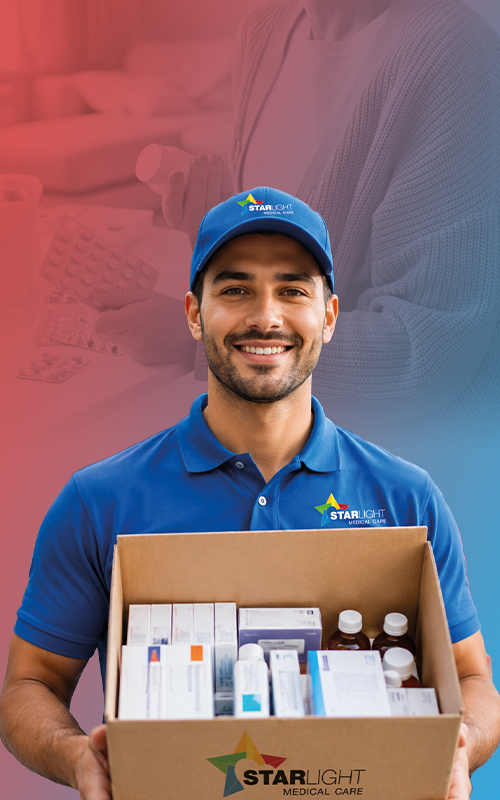
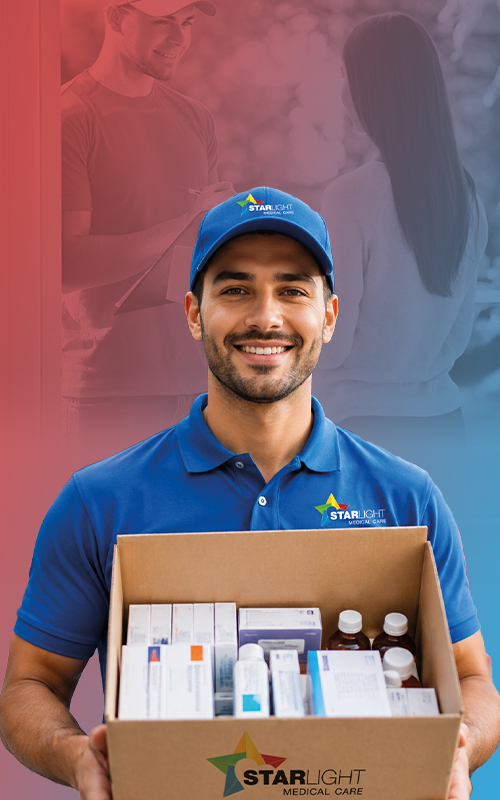
nuevas imagenes, nuevo servicio y bandaBotones

diff --git a/src/components/services1.tsx b/src/components/services1.tsx
@@ -15,6 +15,8 @@ import car5 from "@/assets/Rehabilitacion-1.jpg";
 import car51 from "@/assets/Rehabilitacion-2.jpg";
 import car6 from "@/assets/EquipoMed-1.jpg";
 import car61 from "@/assets/EquipoMed-2.jpg";
+import car7 from "@/assets/Farmacias-1920x530.jpg";
+import car71 from "@/assets/Farmacias-500x800.jpg";
 import { ModalRegistro } from "./ModalRegistro";
 import {
   Dialog,
@@ -230,6 +232,12 @@ const allServices = [
     title: "Venta y Renta de Equipo Médico",
     description: "Amplio catálogo de equipo médico para hospitales, clínicas y uso doméstico.",
   },
+   {
+    imageDesktop: car7,
+    imageMobile: car71,
+    title: "Farmacias Corporativas",
+    description: "Abastecimiento de medicamentos de alta especialidad, genéricos y de patente para hospitales, clínicas, empresas y particulares. Contamos con cadena de frío y distribución a nivel nacional.",
+  },
 ];
 
 export function Services1() {
@@ -242,6 +250,8 @@ export function Services1() {
   const [currentIndex, setCurrentIndex] = useState(0);
   const [nextIndex, setNextIndex] = useState<number | null>(null);
   const [fading, setFading] = useState(false);
+  // Nuevo estado para el tipo de prospecto
+  const [prospectType, setProspectType] = useState<"general" | "empresas" | "proveedores">("general");
   const totalServices = allServices.length;
 
   // Referencias
@@ -366,8 +376,19 @@ export function Services1() {
 
   const handleOpenModal = (service: typeof allServices[0]) => {
     setSelectedService(service);
+    setProspectType("general");   // Para el botón "Solicitar información"
     setModalOpen(true);
   };
+  // Nuevas funciones para los botones de empresa y proveedor
+  const handleOpenEmpresas = () => {
+    setProspectType("empresa");
+    setModalOpen(true);
+  };
+  const handleOpenProveedores = () => {
+    setProspectType("proveedor");
+    setModalOpen(true);
+  };
+
   const handleOpenMoreInfo = (service: typeof allServices[0]) => {
     setSelectedServiceForMoreInfo(service);
     setMoreInfoModalOpen(true);
@@ -380,8 +401,8 @@ export function Services1() {
   const ServiceContent = ({ service }: { service: typeof allServices[0] }) => (
     <>
       {/* Gradiente sobre la imagen para mejorar legibilidad */}
-      <div className="absolute inset-0 bg-gradient-to-t from-black/70 via-black/30 to-transparent pointer-events-none"  />
-      
+      <div className="absolute inset-0 bg-gradient-to-t from-black/70 via-black/30 to-transparent pointer-events-none" />
+
       {/* Contenido textual (título, descripción y botones) */}
       <div className="absolute bottom-0 left-0 right-0 p-4 md:p-8 text-white z-10 h-300px">
         <h3 className="text-2xl md:text-4xl font-bold mb-2 drop-shadow-lg">
@@ -412,118 +433,168 @@ export function Services1() {
   );
 
   return (
-    <section
-      id="servicios"
-      ref={sectionRef}
-      className="relative overflow-hidden bg-gray-900"
-      style={{ minHeight: "100vh" }}
-    >
-      <div className="relative z-10 flex flex-col min-h-screen">
-        <div className="flex-1 flex items-center justify-center px-4 md:px-0" style={{ marginTop: '50px' }}>
-          <div className="relative w-full">
-            <div
-              className="relative w-full overflow-hidden shadow-2xl"
-              onTouchStart={handleTouchStart}
-              onTouchMove={handleTouchMove}
-              onTouchEnd={handleTouchEnd}
-              onMouseDown={handleMouseDown}
-              onMouseMove={handleMouseMove}
-              onMouseUp={handleMouseUp}
-              style={{ cursor: isDragging ? 'grabbing' : 'grab' }}
-            >
-              <div className="relative w-full" style={{ height: "calc(100vh - 120px)", maxHeight: "80vh" }}>
-                
-                {/* Imagen actual (desaparece instantáneamente cuando hay nextIndex) */}
-                <div
-                  className="absolute inset-0"
-                  style={{
-                    opacity: nextIndex !== null ? 0 : 1,
-                    transition: 'none',
-                  }}
-                >
-                  <picture className="block w-full h-full">
-                    <source media="(max-width: 768px)" srcSet={currentService.imageMobile} />
-                    <img
-                      src={currentService.imageDesktop}
-                      alt={currentService.title}
-                      className="w-full h-full object-cover"
-                      draggable={false}
-                    />
-                  </picture>
-                  <ServiceContent service={currentService} />
-                </div>
+    <>
+      <section
+        id="servicios"
+        ref={sectionRef}
+        className="relative overflow-hidden bg-gray-900"
+        style={{ minHeight: "100vh" }}
+      >
+        <div className="relative z-10 flex flex-col min-h-screen">
+          <div className="flex-1 flex items-center justify-center pt-4 md:px-0" style={{ marginTop: '50px' }}>
+            <div className="relative w-full">
+              <div
+                className="relative w-full overflow-hidden shadow-2xl"
+                onTouchStart={handleTouchStart}
+                onTouchMove={handleTouchMove}
+                onTouchEnd={handleTouchEnd}
+                onMouseDown={handleMouseDown}
+                onMouseMove={handleMouseMove}
+                onMouseUp={handleMouseUp}
+                style={{ cursor: isDragging ? 'grabbing' : 'grab' }}
+              >
+                <div className="relative w-full" style={{ height: "calc(100vh - 120px)", maxHeight: "80vh" }}>
 
-                {/* Nueva imagen (entra solo con zoom, sin fade) */}
-                {nextService && (
+                  {/* Imagen actual (desaparece instantáneamente cuando hay nextIndex) */}
                   <div
                     className="absolute inset-0"
                     style={{
-                      opacity: 1,
-                      animation: 'zoomIn 700ms ease-out forwards',
+                      opacity: nextIndex !== null ? 0 : 1,
+                      transition: 'none',
                     }}
                   >
                     <picture className="block w-full h-full">
-                      <source media="(max-width: 768px)" srcSet={nextService.imageMobile} />
+                      <source media="(max-width: 768px)" srcSet={currentService.imageMobile} />
                       <img
-                        src={nextService.imageDesktop}
-                        alt={nextService.title}
+                        src={currentService.imageDesktop}
+                        alt={currentService.title}
                         className="w-full h-full object-cover"
                         draggable={false}
                       />
                     </picture>
-                    <ServiceContent service={nextService} />
+                    <ServiceContent service={currentService} />
                   </div>
-                )}
 
-                {/* Botones de navegación (siempre visibles) */}
-                <button
-                  onClick={goPrev}
-                  className="absolute left-2 md:left-4 top-1/2 -translate-y-1/2 z-30 p-2 rounded-full bg-black/40 backdrop-blur-sm text-white hover:bg-primary transition-all duration-300 disabled:opacity-50 hidden-mobile"
-                  aria-label="Anterior servicio"
-                  disabled={fading}
-                >
-                  <svg className="w-6 h-6" fill="none" viewBox="0 0 24 24" stroke="currentColor">
-                    <path strokeLinecap="round" strokeLinejoin="round" strokeWidth={2} d="M15 19l-7-7 7-7" />
-                  </svg>
-                </button>
-
-                <button
-                  onClick={goNext}
-                  className="absolute right-2 md:right-4 top-1/2 -translate-y-1/2 z-30 p-2 rounded-full bg-black/40 backdrop-blur-sm text-white hover:bg-primary transition-all duration-300 disabled:opacity-50 hidden-mobile"
-                  aria-label="Siguiente servicio"
-                  disabled={fading}
-                >
-                  <svg className="w-6 h-6" fill="none" viewBox="0 0 24 24" stroke="currentColor">
-                    <path strokeLinecap="round" strokeLinejoin="round" strokeWidth={2} d="M9 5l7 7-7 7" />
-                  </svg>
-                </button>
-
-                {/* Indicadores (siempre visibles) */}
-                <div className="absolute bottom-0 left-0 right-0 flex justify-center gap-2 pb-6 z-20">
-                  {allServices.map((_, idx) => (
-                    <button
-                      key={idx}
-                      onClick={() => {
-                        if (!fading && idx !== currentIndex) transitionTo(idx);
+                  {/* Nueva imagen (entra solo con zoom, sin fade) */}
+                  {nextService && (
+                    <div
+                      className="absolute inset-0"
+                      style={{
+                        opacity: 1,
+                        animation: 'zoomIn 700ms ease-out forwards',
                       }}
-                      className={cn(
-                        "h-2 rounded-full transition-all duration-300 disabled:opacity-50",
-                        idx === currentIndex ? "w-8 bg-primary" : "w-2 bg-white/30 hover:bg-white/50"
-                      )}
-                      aria-label={`Ir al servicio ${idx + 1}`}
-                      disabled={fading}
-                    />
-                  ))}
-                </div>
+                    >
+                      <picture className="block w-full h-full">
+                        <source media="(max-width: 768px)" srcSet={nextService.imageMobile} />
+                        <img
+                          src={nextService.imageDesktop}
+                          alt={nextService.title}
+                          className="w-full h-full object-cover"
+                          draggable={false}
+                        />
+                      </picture>
+                      <ServiceContent service={nextService} />
+                    </div>
+                  )}
 
+                  {/* Botones de navegación (siempre visibles) */}
+                  <button
+                    onClick={goPrev}
+                    className="absolute left-2 md:left-4 top-1/2 -translate-y-1/2 z-30 p-2 rounded-full bg-black/40 backdrop-blur-sm text-white hover:bg-primary transition-all duration-300 disabled:opacity-50 hidden-mobile"
+                    aria-label="Anterior servicio"
+                    disabled={fading}
+                  >
+                    <svg className="w-6 h-6" fill="none" viewBox="0 0 24 24" stroke="currentColor">
+                      <path strokeLinecap="round" strokeLinejoin="round" strokeWidth={2} d="M15 19l-7-7 7-7" />
+                    </svg>
+                  </button>
+
+                  <button
+                    onClick={goNext}
+                    className="absolute right-2 md:right-4 top-1/2 -translate-y-1/2 z-30 p-2 rounded-full bg-black/40 backdrop-blur-sm text-white hover:bg-primary transition-all duration-300 disabled:opacity-50 hidden-mobile"
+                    aria-label="Siguiente servicio"
+                    disabled={fading}
+                  >
+                    <svg className="w-6 h-6" fill="none" viewBox="0 0 24 24" stroke="currentColor">
+                      <path strokeLinecap="round" strokeLinejoin="round" strokeWidth={2} d="M9 5l7 7-7 7" />
+                    </svg>
+                  </button>
+
+                  {/* Indicadores (siempre visibles) */}
+                  <div className="absolute bottom-0 left-0 right-0 flex justify-center gap-2 pb-6 z-20">
+                    {allServices.map((_, idx) => (
+                      <button
+                        key={idx}
+                        onClick={() => {
+                          if (!fading && idx !== currentIndex) transitionTo(idx);
+                        }}
+                        className={cn(
+                          "h-2 rounded-full transition-all duration-300 disabled:opacity-50",
+                          idx === currentIndex ? "w-8 bg-primary" : "w-2 bg-white/30 hover:bg-white/50"
+                        )}
+                        aria-label={`Ir al servicio ${idx + 1}`}
+                        disabled={fading}
+                      />
+                    ))}
+                  </div>
+
+                </div>
               </div>
             </div>
           </div>
-        </div>
-      </div>
 
-      {/* Animación CSS personalizada: solo zoom, sin opacidad */}
-      <style jsx>{`
+          {/* SECCIÓN MODIFICADA: dos botones para empresas y proveedores */}
+          <div className="bg-white py-8 px-4 md:px-8">
+            <div className="max-w-6xl mx-auto flex flex-col md:flex-row gap-6 justify-center items-stretch">
+              {/* Botón / Tarjeta para Empresas */}
+              <button
+                onClick={handleOpenEmpresas}
+                className="group flex-1 flex items-center gap-4 p-6 rounded-2xl bg-gradient-to-br from-blue-50 to-white border border-blue-100 shadow-md hover:shadow-xl transition-all duration-300 hover:-translate-y-1 focus:outline-none focus:ring-2 focus:ring-primary/50"
+              >
+                <div className="p-3 bg-blue-100 rounded-full text-blue-600 group-hover:scale-110 transition-transform duration-300">
+                  {/* Icono de edificio/empresa (SVG inline) */}
+                  <svg className="w-8 h-8" fill="none" stroke="currentColor" viewBox="0 0 24 24" xmlns="http://www.w3.org/2000/svg">
+                    <path strokeLinecap="round" strokeLinejoin="round" strokeWidth={1.5} d="M19 21V5a2 2 0 00-2-2H7a2 2 0 00-2 2v16m14 0h2m-2 0h-5m-9 0H3m2 0h5M9 7h1m-1 4h1m4-4h1m-1 4h1m-5 10v-5a1 1 0 011-1h2a1 1 0 011 1v5m-4 0h4" />
+                  </svg>
+                </div>
+                <div className="text-left">
+                  <div className="font-bold text-xl text-gray-800">¿Eres una empresa?</div>
+                  <div className="text-sm text-gray-500">Contacta con Starlight para soluciones corporativas</div>
+                </div>
+                <div className="ml-auto text-primary opacity-0 group-hover:opacity-100 transition-opacity">
+                  <svg className="w-5 h-5" fill="none" stroke="currentColor" viewBox="0 0 24 24">
+                    <path strokeLinecap="round" strokeLinejoin="round" strokeWidth={2} d="M9 5l7 7-7 7" />
+                  </svg>
+                </div>
+              </button>
+
+              {/* Botón / Tarjeta para Proveedores */}
+              <button
+                onClick={handleOpenProveedores}
+                className="group flex-1 flex items-center gap-4 p-6 rounded-2xl bg-gradient-to-br from-emerald-50 to-white border border-emerald-100 shadow-md hover:shadow-xl transition-all duration-300 hover:-translate-y-1 focus:outline-none focus:ring-2 focus:ring-primary/50"
+              >
+                <div className="p-3 bg-emerald-100 rounded-full text-emerald-600 group-hover:scale-110 transition-transform duration-300">
+                  {/* Icono de apretón de manos / proveedores */}
+                  <svg className="w-8 h-8" fill="none" stroke="currentColor" viewBox="0 0 24 24" xmlns="http://www.w3.org/2000/svg">
+                    <path strokeLinecap="round" strokeLinejoin="round" strokeWidth={1.5} d="M17 8h2a2 2 0 012 2v6a2 2 0 01-2 2h-2v4l-4-4H9a1.994 1.994 0 01-1.414-.586m0 0L11 14h4a2 2 0 002-2V6a2 2 0 00-2-2H5a2 2 0 00-2 2v6a2 2 0 002 2h2v4l.586-.586z" />
+                  </svg>
+                </div>
+                <div className="text-left">
+                  <div className="font-bold text-xl text-gray-800">Únete como proveedor</div>
+                  <div className="text-sm text-gray-500">Forma parte de nuestra red de servicios y suministros</div>
+                </div>
+                <div className="ml-auto text-primary opacity-0 group-hover:opacity-100 transition-opacity">
+                  <svg className="w-5 h-5" fill="none" stroke="currentColor" viewBox="0 0 24 24">
+                    <path strokeLinecap="round" strokeLinejoin="round" strokeWidth={2} d="M9 5l7 7-7 7" />
+                  </svg>
+                </div>
+              </button>
+            </div>
+          </div>
+        </div>
+
+        {/* Animación CSS personalizada: solo zoom, sin opacidad */}
+        <style jsx>{`
         @keyframes zoomIn {
           0% {
             transform: scale(1.08);
@@ -534,12 +605,13 @@ export function Services1() {
         }
       `}</style>
 
-      <ModalRegistro open={modalOpen} onOpenChange={setModalOpen} tipoProspecto={"general"} />
-      <ModalMoreInfo
-        open={moreInfoModalOpen}
-        onOpenChange={setMoreInfoModalOpen}
-        service={selectedServiceForMoreInfo}
-      />
-    </section>
+        <ModalRegistro open={modalOpen} onOpenChange={setModalOpen} tipoProspecto={prospectType} />
+        <ModalMoreInfo
+          open={moreInfoModalOpen}
+          onOpenChange={setMoreInfoModalOpen}
+          service={selectedServiceForMoreInfo}
+        />
+      </section>
+    </>
   );
 }

diff --git a/src/components/bandaBotones.tsx b/src/components/bandaBotones.tsx
@@ -1,0 +1,9 @@
+import React from 'react'
+
+function BandaBotones() {
+  return (
+    <div></div>
+  )
+}
+
+export default BandaBotones

diff --git a/src/components/footer.tsx b/src/components/footer.tsx
@@ -118,7 +118,7 @@ export default function Footer() {
                   className="h-12 w-auto transition-all duration-300"
                 />
               </a>
-              <p className="text-white/60 ms-4 max-w-sm text-pretty leading-relaxed">
+              <p className="text-white/60 ms-4 max-w-sm text-pretty leading-relaxed" style={{textAlign:'justify'}}>
                 Soluciones médicas integrales, donde y cuando las necesites.
                 Atención a domicilio, ambulancias, farmacia y equipo médico en todo México.
               </p>

diff --git a/src/pages/Index.tsx b/src/pages/Index.tsx
@@ -19,6 +19,7 @@ import { WhatsAppButton } from "@/components/whatsapp-button";
 // import fondo3 from "@/assets/3.png"
 import { Services1 } from "@/components/services1";
 import { CentroRehabilitacion } from "@/components/centroRehabilitación";
+import BandaBotones from "@/components/bandaBotones";
 
 const Index = () => {
 
@@ -28,6 +29,7 @@ const Index = () => {
       <Header />
       {/* <Hero/> */}
       <Services1 />
+      <BandaBotones/>
       <CentroRehabilitacion/>
       <Gallery />
       <Coverage />